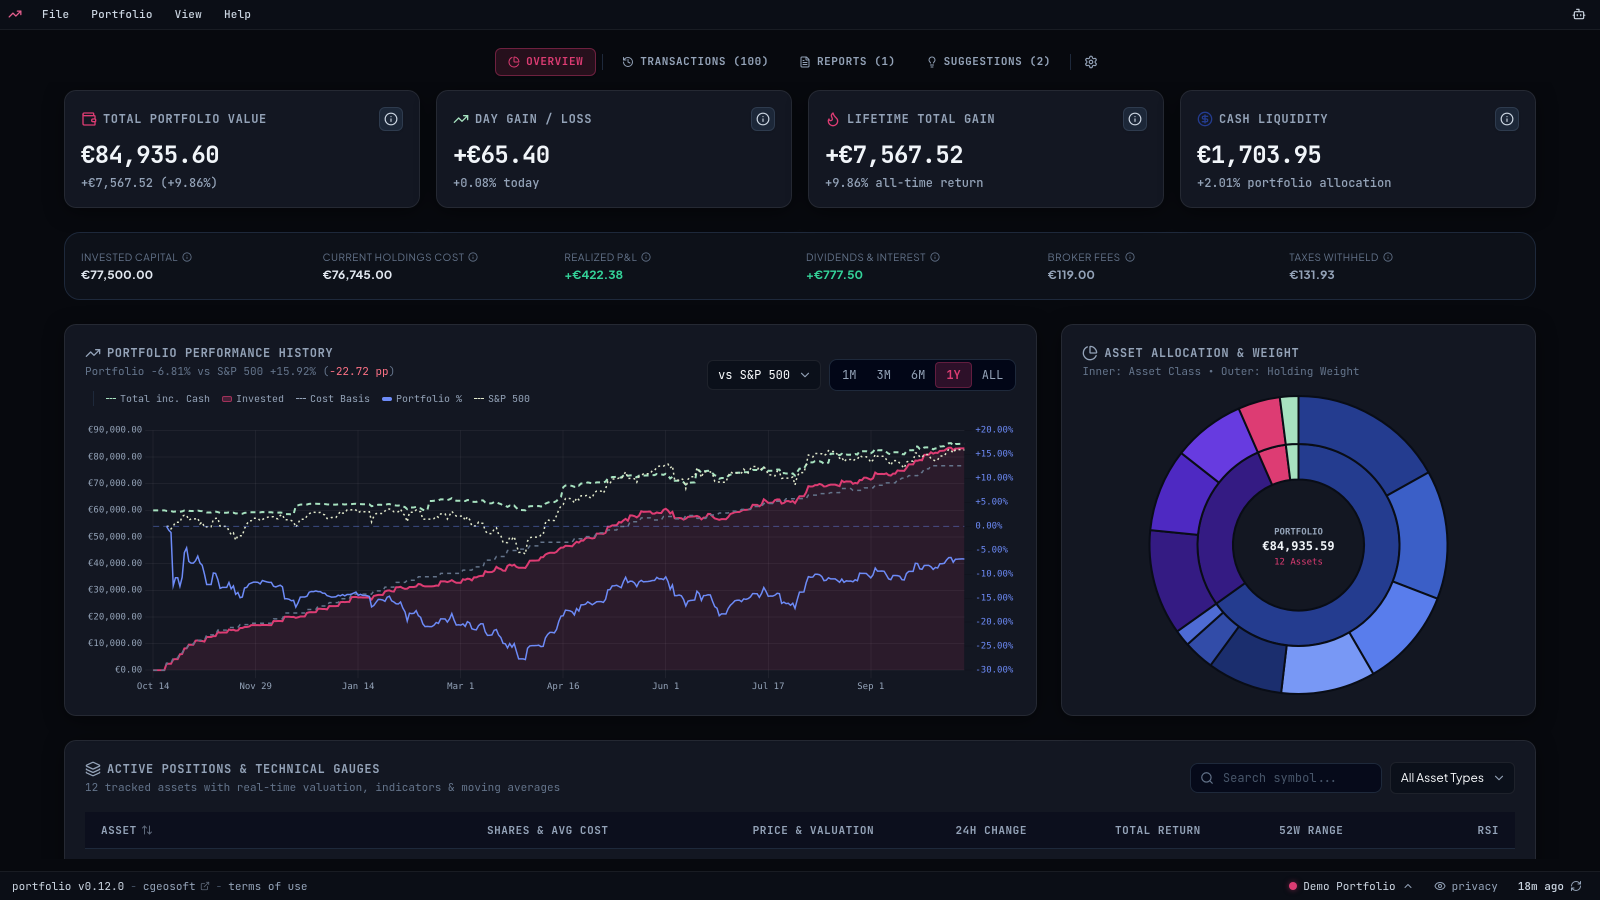
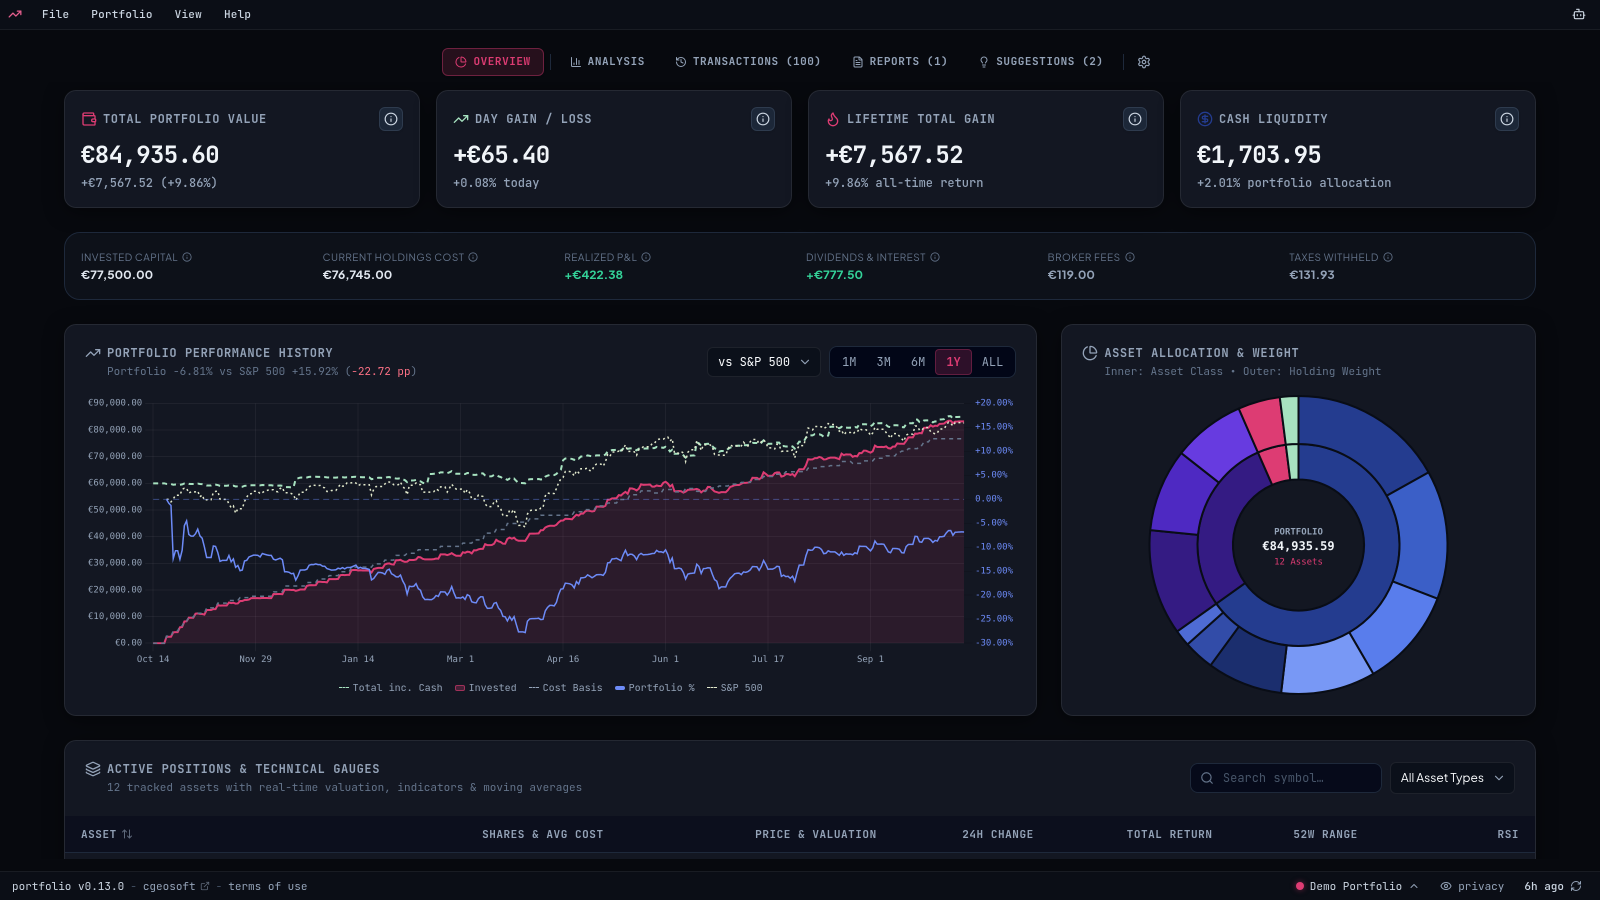
Website tour: refresh screenshots with the Analysis tab
Force English in the capture script so hotspot targets match.

diff --git a/extras/website/tour/index.html b/extras/website/tour/index.html
@@ -4,7 +4,7 @@
   <meta charset="UTF-8">
   <meta name="viewport" content="width=device-width, initial-scale=1.0">
   <title>Tour - Portfolio</title>
-  <meta name="description" content="A guided tour of Portfolio with real screenshots: overview, positions, income, the assistant, weekly reports, suggestions and transactions.">
+  <meta name="description" content="A guided tour of Portfolio with real screenshots: overview, positions, analysis and income, the assistant, weekly reports, suggestions and transactions.">
   <meta property="og:title" content="Portfolio - Tour">
   <meta property="og:description" content="Real screenshots of the free, offline investment tracker.">
   <meta property="og:type" content="website">

diff --git a/scripts/screenshots/capture.ts b/scripts/screenshots/capture.ts
@@ -138,7 +138,8 @@ async function prepareData(api: Api): Promise<{ id: string; baseCurrency: string
     await api.call("POST", "/api/setup/complete", { populateDemo: true, enableTelemetry: false });
     ({ portfolios } = await api.call("GET", "/api/portfolios"));
   }
-  await api.call("PATCH", "/api/config", { hideSponsorBanners: true, dailyBriefEnabled: true });
+  // English: the hotspot targets in shots.ts match English text.
+  await api.call("PATCH", "/api/config", { language: "en", hideSponsorBanners: true, dailyBriefEnabled: true });
   const portfolio = portfolios[0];
   if (!portfolio) throw new Error("no portfolio after setup");
   return portfolio;
